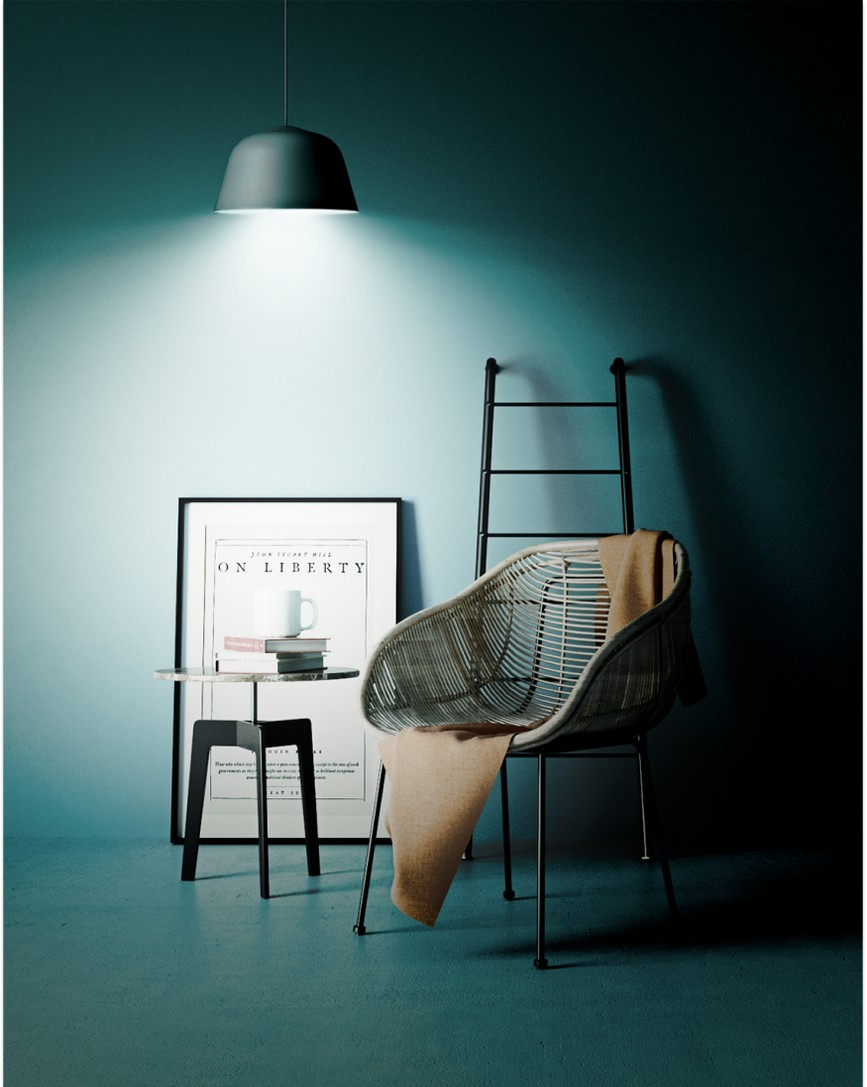
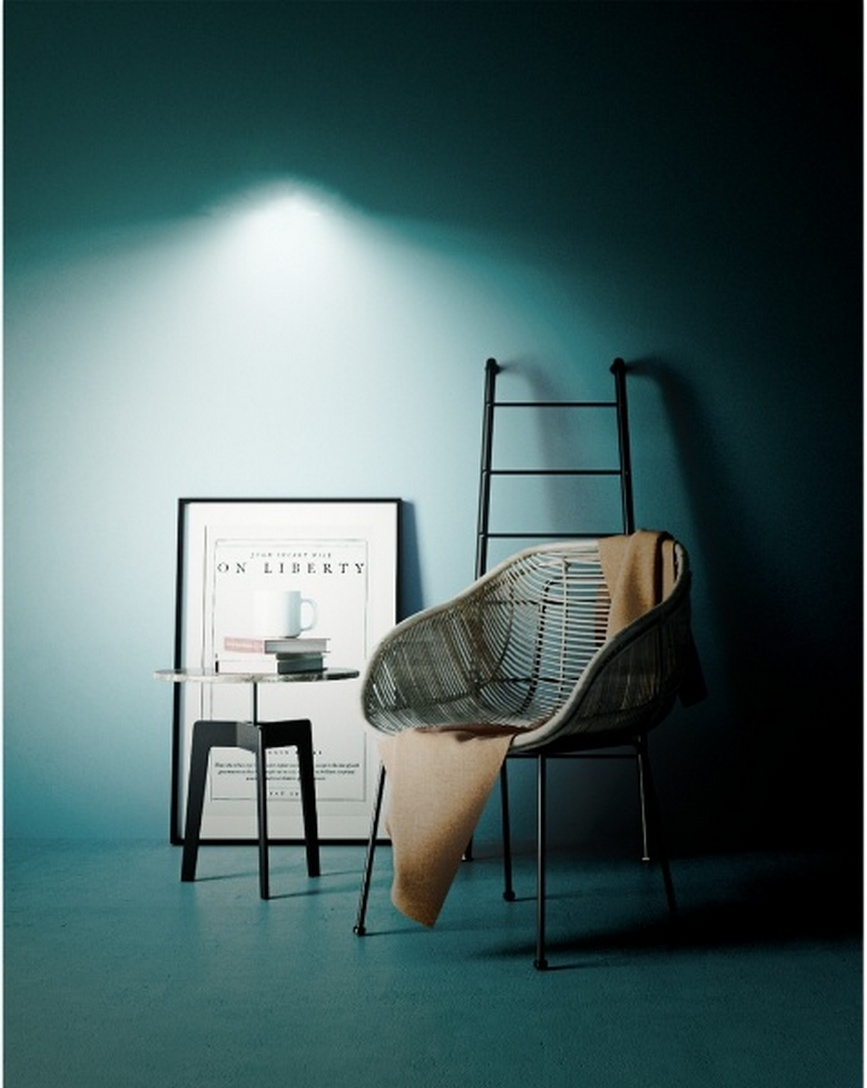
updated files

diff --git a/README.md b/README.md
@@ -1,3 +1,5 @@
 # ease-shop-test-task
 
 Deployed static files of the test task
+
+Night mode doesn't work properly - no night mode images for all lamps
